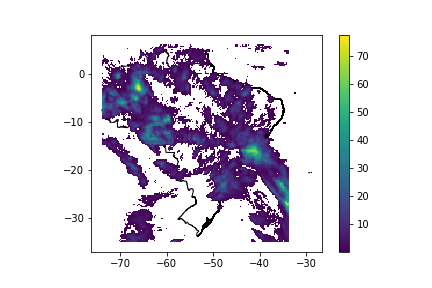
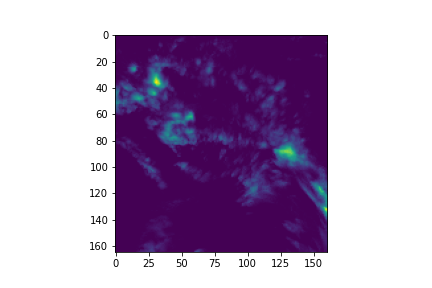
feat: finishing README.md

diff --git a/README.md b/README.md
@@ -8,7 +8,7 @@ As our API currently download the data in the GeoTIFF format, every "pixel" in t
 
 ![PERSIANN data. Screenshot taken from https://chrsdata.eng.uci.edu/ .](github_images/PERSIANN_example.png)
 
-The screenshot above was taken from https://chrsdata.eng.uci.edu/. Which is the official site for the PERSIANN project.
+The screenshot above was taken from https://chrsdata.eng.uci.edu/, which is the official site for the PERSIANN project. This was taken from Brazil in the 28th of December!
 
 # Installation
 
@@ -54,16 +54,22 @@ from PIL import Image
 
 # downloads daily data and store each data from date inside the folder.
 download_data(
-    from_date=datetime.date(2021, 12, 1),
-    to_date=datetime.date(2021, 12, 31),
+    from_date=datetime.date(2021, 12, 28),
+    to_date=datetime.date(2021, 12, 28),
     folder='data/',
     # bounding box for Brazil
     lat_bb=(-35, 6),
     lon_bb=(-69, -36)
 )
 # read the GeoTIFF with your favorite package
-geotiff_path = 'data/2021_12_1.tiff'
-arr = np.asarray(Image.open(geotiff_path, mode='r'))
+geotiff_path = 'data/2021_12_28.tiff'
+arr = np.asarray(Image.open(geotiff_path, mode='r'))[::-1] # we must mirror the GeoTIFF.
 ```
 
-![PERSIANN data for Brazil from 1st December of 2021.](github_images/PERSIANN_API_example.png)
+![PERSIANN data for Brazil from 28st December of 2021.](github_images/PERSIANN_API_example.png)
+
+See? This is the same data as the first original data!
+
+This is a longer example to put here, but in the [notebooks](notebooks/testing_persiann_api.ipynb) folder you can find the code to generate this picture:
+
+![PERSIANN data for Brazil from 28st December of 2021.](github_images/PERSIANN_API_example_geopandas_georasters.png)
